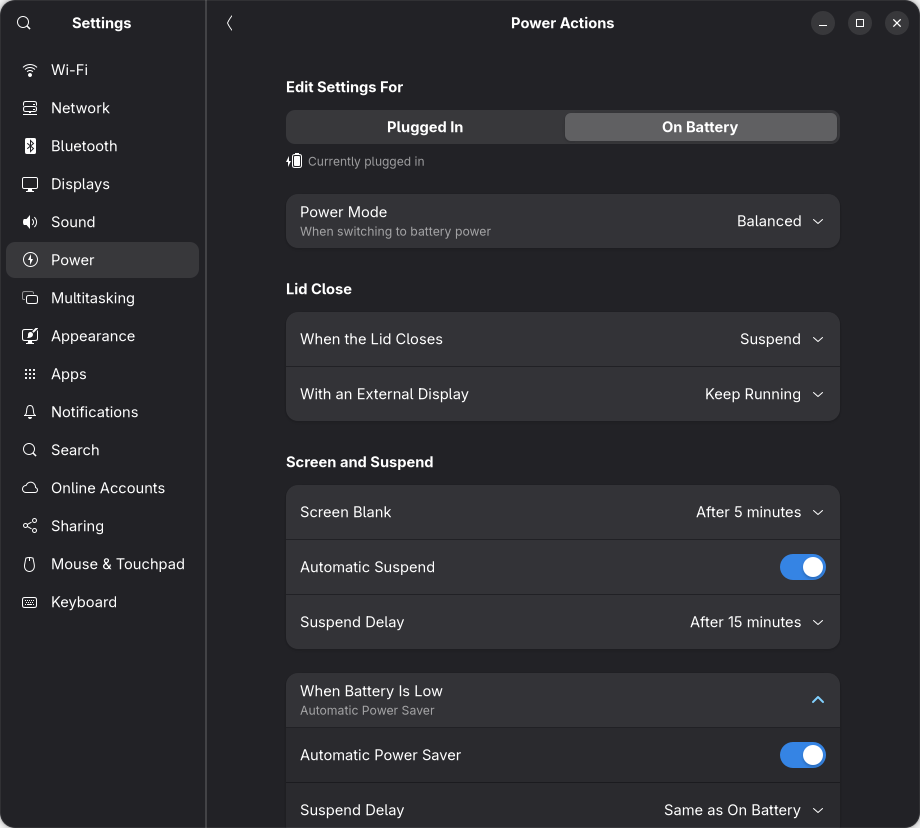
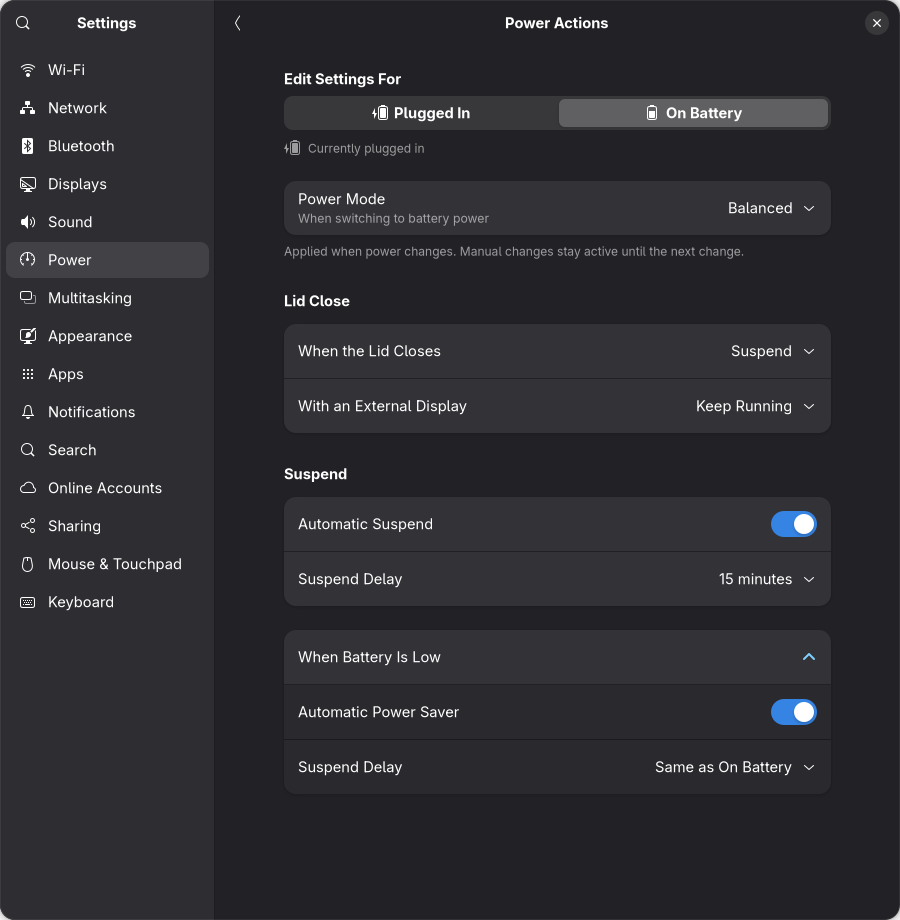
Use full duration labels in Simple View and regenerate authentic GTK4 GNOME mockups

diff --git a/tests/prefs.test.js b/tests/prefs.test.js
@@ -600,7 +600,7 @@ function makeBaseCaps(overrides = {}) {
     simple.selectSource('ac', { userInitiated: true });
     adv.selectState('ac');
     assertEqual(getSelectedLabel(simple._idleActionRow), 'Suspend', 'simple AC idle action synced');
-    assertEqual(getSelectedLabel(simple._idleTimeoutRow), 'After 20 min', 'simple AC idle delay synced');
+    assertEqual(getSelectedLabel(simple._idleTimeoutRow), '20 minutes', 'simple AC idle delay synced');
     assertEqual(getSelectedLabel(adv._idleActionDropDown), 'Suspend', 'Advanced AC idle action synced');
     assertEqual(getSelectedLabel(adv._idleTimeoutDropDown), 'After 20 min', 'Advanced AC idle delay synced');
 
@@ -647,7 +647,7 @@ function makeBaseCaps(overrides = {}) {
         true,
         'low-battery Suspend Delay enabled when Low Battery Automatic Suspend is Suspend'
     );
-    selectByLabel(simple._lowIdleTimeoutRow, 'After 5 min');
+    selectByLabel(simple._lowIdleTimeoutRow, '5 minutes');
     drainEvents();
 
     assertEqual(gnomePower.writes.length, 0, 'low-battery idle edits never touch native gsd-power');
@@ -809,7 +809,7 @@ function makeBaseCaps(overrides = {}) {
     // Extra native action ('blank') shows actual name and offers route to Advanced
     assertEqual(getSelectedLabel(simple._idleActionRow), 'Blank Screen', 'extra native action shown by name');
     assertEqual(simple._idleAdvancedRouteRow.visible, true, 'Edit in Advanced route shown for extra native action');
-    assertEqual(getSelectedLabel(simple._idleTimeoutRow), 'After 7 min 30 s', 'non-preset 450s timeout shown exactly');
+    assertEqual(getSelectedLabel(simple._idleTimeoutRow), '7 min 30 s', 'non-preset 450s timeout shown exactly');
 
     // Activating Edit in Advanced navigates to Advanced page on AC without writing settings
     const writesBeforeRoute = gnomePower.writes.length;
@@ -836,13 +836,13 @@ function makeBaseCaps(overrides = {}) {
     );
     assertEqual(
         getSelectedLabel(simple._idleTimeoutRow),
-        'After 17 min',
+        '17 minutes',
         'custom 1020s native timeout shown exactly'
     );
 
     // Editing Delay while Action is locked/hibernate preserves Action and only writes timeout
     gnomePower.writes.length = 0;
-    selectByLabel(simple._idleTimeoutRow, 'After 30 min');
+    selectByLabel(simple._idleTimeoutRow, '30 minutes');
     drainEvents();
     assertEqual(
         gnomePower.get_string('sleep-inactive-battery-type'),
@@ -1022,12 +1022,12 @@ function makeBaseCaps(overrides = {}) {
     const adv = ctrl.advancedController;
     adv.selectState('battery');
 
-    // Both pages show ordinary battery baseline (15 min = 900s), NOT the temporary 300s override
-    assertEqual(getSelectedLabel(simple._idleTimeoutRow), 'After 15 min', 'simple shows 900s battery baseline');
+    // Both pages show ordinary battery baseline (15 minutes = 900s), NOT the temporary 300s override
+    assertEqual(getSelectedLabel(simple._idleTimeoutRow), '15 minutes', 'simple shows 900s battery baseline');
     assertEqual(getSelectedLabel(adv._idleTimeoutDropDown), 'After 15 min', 'Advanced shows 900s battery baseline');
 
-    // Edit ordinary battery timeout to 20 min (1200s) in Power Source Settings during Low Battery
-    selectByLabel(simple._idleTimeoutRow, 'After 20 min');
+    // Edit ordinary battery timeout to 20 minutes (1200s) in Power Source Settings during Low Battery
+    selectByLabel(simple._idleTimeoutRow, '20 minutes');
     drainEvents();
 
     assertEqual(
@@ -1035,7 +1035,7 @@ function makeBaseCaps(overrides = {}) {
         300,
         'active Low Battery native override stays 300s'
     );
-    assertEqual(getSelectedLabel(simple._idleTimeoutRow), 'After 20 min', 'simple shows updated 1200s baseline');
+    assertEqual(getSelectedLabel(simple._idleTimeoutRow), '20 minutes', 'simple shows updated 1200s baseline');
     assertEqual(getSelectedLabel(adv._idleTimeoutDropDown), 'After 20 min', 'Advanced shows updated 1200s baseline');
 
     // Exit Low Battery (back to normal On Battery) -> restores 1200s!
@@ -1082,13 +1082,13 @@ function makeBaseCaps(overrides = {}) {
     const simple = ctrl.powerSourceController;
     simple._lowBatteryExpander.expanded = true;
 
-    // Inheriting native 15 min must display 15 min (not stored local 8 min)
+    // Inheriting native 15 min must display 15 minutes (not stored local 8 min)
     assertEqual(simple._lowIdleTimeoutRow.visible, true, 'inherited active delay row is visible');
     assertEqual(simple._lowIdleTimeoutRow.sensitive, false, 'inherited active delay row is disabled');
     assertEqual(
         getSelectedLabel(simple._lowIdleTimeoutRow),
-        'After 15 min',
-        'inherited low-battery delay shows actual effective native 15 min instead of local 8 min'
+        '15 minutes',
+        'inherited low-battery delay shows actual effective native 15 minutes instead of local 8 min'
     );
     assertEqual(
         simple._lowIdleTimeoutRow.subtitle,
@@ -1106,8 +1106,8 @@ function makeBaseCaps(overrides = {}) {
     drainEvents();
     assertEqual(
         getSelectedLabel(simple._lowIdleTimeoutRow),
-        'After 20 min',
-        'inherited low-battery delay tracks native battery timeout update to 20 min'
+        '20 minutes',
+        'inherited low-battery delay tracks native battery timeout update to 20 minutes'
     );
     assertEqual(
         settings.get_int('low-battery-idle-timeout'),
@@ -1127,8 +1127,8 @@ function makeBaseCaps(overrides = {}) {
     assertEqual(simple._lowIdleTimeoutRow.sensitive, true, 'explicit Suspend enables low-battery delay row');
     assertEqual(
         getSelectedLabel(simple._lowIdleTimeoutRow),
-        'After 8 min',
-        'explicit Suspend displays preserved stored independent 8 min delay'
+        '8 minutes',
+        'explicit Suspend displays preserved stored independent 8 minutes delay'
     );
 
     // Switching back to inherited when On Battery is Off omits the delay row
@@ -1147,14 +1147,14 @@ function makeBaseCaps(overrides = {}) {
         'low-battery action choice accurately displays Same as Battery (Off)'
     );
 
-    // Switching back to explicit Suspend re-shows row with preserved 8 min delay
+    // Switching back to explicit Suspend re-shows row with preserved 8 minutes delay
     selectByLabel(simple._lowIdleActionRow, 'Suspend');
     drainEvents();
     assertEqual(simple._lowIdleTimeoutRow.visible, true, 'explicit Suspend re-shows delay row');
     assertEqual(
         getSelectedLabel(simple._lowIdleTimeoutRow),
-        'After 8 min',
-        'preserved independent 8 min delay survives Off-inheritance round trip'
+        '8 minutes',
+        'preserved independent 8 minutes delay survives Off-inheritance round trip'
     );
 
     ctrl.destroy();

diff --git a/lib/powerSourcePage.js b/lib/powerSourcePage.js
@@ -880,7 +880,7 @@ export class PowerSourcePageController {
         }
 
         const delayActive = exactIdle.action === 'suspend' || exactIdle.action === 'hibernate';
-        this._idleTimeoutChoices = buildTimeoutChoices(exactIdle.timeout, _);
+        this._idleTimeoutChoices = buildTimeoutChoices(exactIdle.timeout, _, { compact: false });
         setModelIfChanged(this._idleTimeoutRow, this._idleTimeoutChoices.map(o => o.label));
         selectOption(this._idleTimeoutRow, this._idleTimeoutChoices, 'value', exactIdle.timeout);
 
@@ -1001,7 +1001,9 @@ export class PowerSourcePageController {
         if (isInherited) {
             if (batHasDelay) {
                 this._lowIdleTimeoutRow.visible = true;
-                this._lowIdleTimeoutChoices = buildTimeoutChoices(batteryExactIdle.timeout, _);
+                this._lowIdleTimeoutChoices = buildTimeoutChoices(batteryExactIdle.timeout, _, {
+                    compact: false,
+                });
                 setModelIfChanged(
                     this._lowIdleTimeoutRow,
                     this._lowIdleTimeoutChoices.map(o => o.label)
@@ -1020,7 +1022,9 @@ export class PowerSourcePageController {
             }
         } else {
             this._lowIdleTimeoutRow.visible = true;
-            this._lowIdleTimeoutChoices = buildTimeoutChoices(lowExactIdle.timeout, _);
+            this._lowIdleTimeoutChoices = buildTimeoutChoices(lowExactIdle.timeout, _, {
+                compact: false,
+            });
             setModelIfChanged(
                 this._lowIdleTimeoutRow,
                 this._lowIdleTimeoutChoices.map(o => o.label)

diff --git a/lib/prefsModel.js b/lib/prefsModel.js
@@ -173,14 +173,18 @@ export function formatDuration(seconds, _ = s => s) {
     return fmt(_('%d min %d s'), Math.floor(seconds / 60), seconds % 60);
 }
 
-export function buildTimeoutChoices(currentSeconds, _ = s => s) {
-    const list = BASE_IDLE_TIMEOUT_OPTIONS.map(o => ({ value: o.value, label: _(o.label) }));
+export function buildTimeoutChoices(currentSeconds, _ = s => s, { compact = true } = {}) {
+    const format = compact ? formatTimeoutDuration : formatDuration;
+    const list = BASE_IDLE_TIMEOUT_OPTIONS.map(o => ({
+        value: o.value,
+        label: compact ? _(o.label) : formatDuration(o.value, _),
+    }));
     if (
         typeof currentSeconds === 'number' &&
         currentSeconds > 0 &&
         !list.some(o => o.value === currentSeconds)
     ) {
-        list.push({ value: currentSeconds, label: formatTimeoutDuration(currentSeconds, _) });
+        list.push({ value: currentSeconds, label: format(currentSeconds, _) });
         list.sort((a, b) => a.value - b.value);
     }
     return list;

diff --git a/docs/gnome-power-actions/proposal.md b/docs/gnome-power-actions/proposal.md
@@ -42,29 +42,29 @@ Where the current layout falls short for the laptop/dock case:
 #### What stays put
 
 - **General** keeps global hardware and live state controls: battery status/health/charging limits, **Current Power Mode**, **Power Button Behavior**, and **Show Battery Percentage**.
-- **Power Saving** keeps global display-saving controls (**Automatic Screen Brightness** and **Dim Screen**).
-- Each native setting should have **one editing destination** rather than being duplicated in both **Power Saving** and **Power Actions** (see the phased rollout section below for handling global **Screen Blank** in an initial step).
+- **Power Saving** keeps global display-saving controls (**Automatic Screen Brightness**, **Dim Screen**, and global **Screen Blank** until per-source screen blanking exists natively). Keeping **Power Actions** as a dedicated subpage prevents users from assuming global display controls change when switching between **Plugged In** and **On Battery**.
+- Each native setting has **one editing destination** rather than being duplicated in both **Power Saving** and **Power Actions**.
 
 #### Entry point in Power Saving
 
 Add a single navigation row in **Power Saving**:
 
 - **Title:** `Power Actions`
-- **Subtitle:** `Choose what happens when the lid closes or the laptop is idle`
+- **Subtitle:** `Power mode, lid close, and automatic suspend`
 
-The copy is intentionally neutral and task-focused rather than repeating power-source mechanics in the subtitle.
+The copy is concise, neutral across laptops and desktops, and names the exact behaviors controlled inside.
 
 #### Figure 1: Power Saving entry point (desktop)
 
-![Desktop GNOME Settings showing the Power panel on the Power Saving view with Automatic Screen Brightness, Dim Screen, and the Power Actions navigation row](images/power-saving.png)
+![Desktop GNOME Settings showing the Power panel on the Power Saving view with Automatic Screen Brightness, Dim Screen, Screen Blank, and the Power Actions navigation row](images/power-saving.png)
 
-*Description:* Desktop layout of GNOME Settings with **Power** selected in the sidebar and **Power Saving** active in the header switcher. The top boxed list keeps **Automatic Screen Brightness** and **Dim Screen**. Below it is a single navigation row titled **Power Actions**, subtitled **"Choose what happens when the lid closes or the laptop is idle"**, with a disclosure chevron.
+*Description:* Desktop layout of GNOME Settings with **Power** selected in the sidebar and **Power Saving** active in the header switcher. The top boxed list keeps global display controls (**Automatic Screen Brightness**, **Dim Screen**, and **Screen Blank** set to **5 minutes**). Below it is a single navigation row titled **Power Actions**, subtitled **"Power mode, lid close, and automatic suspend"**, with a disclosure chevron.
 
 #### Figure 2: Power Saving entry point (narrow / 360px)
 
-![Narrow 360px layout of the Power Saving view with bottom General and Power Saving view switcher and the Power Actions row](images/power-saving-narrow.png)
+![Narrow 360px layout of the Power Saving view with back button, bottom General and Power Saving view switcher, global display rows, and the Power Actions row](images/power-saving-narrow.png)
 
-*Description:* Compact 360px layout of **Power Saving**. The sidebar collapses, the **General** / **Power Saving** switcher moves to the bottom bar, and the **Power Actions** row wraps cleanly under **Automatic Screen Brightness** and **Dim Screen**.
+*Description:* Compact 360px layout of **Power Saving**. The sidebar collapses behind the top-left back button, the **General** / **Power Saving** switcher moves to the bottom bar, and **Power Actions** wraps cleanly below **Automatic Screen Brightness**, **Dim Screen**, and **Screen Blank**.
 
 ---
 
@@ -76,31 +76,31 @@ Activating **Power Actions** pushes a navigation page structured around two peer
   - `Edit Settings For` uses a segmented toggle (`Plugged In` | `On Battery`) to answer *"Which settings am I editing?"*.
   - On opening, the selector initializes to the laptop's actual active power source when reliably known (with a deterministic fallback when unknown).
   - Once open, the selected editing tab **never changes automatically** during plug/unplug events, hardware probe updates, or low-battery transitions—preventing focus or context from jumping mid-edit.
-  - A separate, non-interactive status caption underneath (e.g., `Currently plugged in`, omitted if unknown) answers *"What is the laptop using right now?"*. Browsing either tab never writes settings or activates a power profile.
+  - A separate, non-interactive dimmed status caption underneath (e.g., `Currently plugged in`, omitted if unknown) answers *"What is the laptop using right now?"*. Browsing either tab never writes settings or activates a power profile.
 - **Symmetrical primary rows:** Both **Plugged In** and **On Battery** present the same groups in the same order, with one primary control per row:
-  1. **Power Mode** — transition rule (`When connecting to power` / `When switching to battery power`), proposed fresh default **Keep Current Mode** for both sources.
+  1. **Power Mode** — transition rule (`When connecting to power` / `When switching to battery power`), proposed fresh default **Keep Current Mode** for both sources, accompanied by a concise caption (*"Applied when power changes. Manual changes stay active until the next change."*).
   2. **Lid Close** — **When the Lid Closes** and **With an External Display**.
-  3. **Screen and Suspend** — **Screen Blank**, **Automatic Suspend**, and **Suspend Delay** (with **Suspend Delay** insensitive when **Automatic Suspend** is turned off).
+  3. **Suspend** — **Automatic Suspend** and **Suspend Delay** (with **Suspend Delay** insensitive when **Automatic Suspend** is turned off, using GNOME's standard duration labels such as `15 minutes` and `1 hour` without a redundant `"After"` prefix).
 - **Thoughtful hardware and capability adaptation:** Hide **Lid Close** on devices without a lid; hide **With an External Display** when its outcomes would not differ from the main lid action; hide or adapt **Power Mode** when no power-profiles backend is available; omit the **Plugged In** / **On Battery** selector on AC-only desktops. If a user already configured a non-preset timeout or an unusual action via `dconf`, display the real value accurately and preserve it when editing neighboring rows.
-- **Nested low-battery exception with honest inheritance:** Under **On Battery** only, a **When Battery Is Low** expander row summarizes only the effective differences from ordinary battery behavior (for example, `Automatic Power Saver`, or `Automatic Power Saver · suspend after 5 minutes`). Inheritance wording such as `Same as On Battery` is used only where a setting genuinely inherits from **On Battery** rather than inferring inheritance from two equal values. Editing **When Battery Is Low** never modifies ordinary **On Battery** settings.
+- **Nested low-battery exception with honest inheritance:** Under **On Battery** only, a **When Battery Is Low** expander row summarizes only the effective differences from ordinary battery behavior when collapsed (for example, `Automatic Power Saver`, or `Automatic Power Saver · suspend after 5 minutes`). Inheritance wording such as `Same as On Battery` is used only where a setting genuinely inherits from **On Battery** rather than inferring inheritance from two equal values. Editing **When Battery Is Low** never modifies ordinary **On Battery** settings. (When ordinary **Automatic Suspend** on battery is turned off, the low-battery delay row should either clarify `Off (Same as On Battery)` or allow opting into a low-battery suspend delay explicitly.)
 
 #### Figure 3: Plugged In view (desktop)
 
-![Desktop Power Actions subpage with Plugged In selected, showing Currently plugged in status, Power Mode, Lid Close, and Screen and Suspend groups](images/plugged-in.png)
+![Desktop Power Actions subpage with Plugged In selected, showing Currently plugged in status, Power Mode, Lid Close, and Suspend groups](images/plugged-in.png)
 
-*Description:* Desktop layout inside **Power Actions** with **Plugged In** selected in `Edit Settings For` and `Currently plugged in` underneath. **Power Mode** (`When connecting to power`) is set to **Keep Current Mode**. Under **Lid Close**, **When the Lid Closes** is **Suspend** and **With an External Display** is **Keep Running**. Under **Screen and Suspend**, **Screen Blank** is **After 15 minutes**, **Automatic Suspend** is off, and **Suspend Delay** (**After 1 hour**) is insensitive.
+*Description:* Desktop layout inside **Power Actions** with **Plugged In** selected in `Edit Settings For` and `Currently plugged in` underneath. **Power Mode** (`When connecting to power`) is set to **Keep Current Mode**, followed by the transition caption. Under **Lid Close**, **When the Lid Closes** is **Suspend** and **With an External Display** is **Keep Running**. Under **Suspend**, **Automatic Suspend** is off and **Suspend Delay** (**1 hour**) is insensitive.
 
 #### Figure 4: On Battery view with nested Low Battery (desktop)
 
 ![Desktop Power Actions subpage with On Battery selected while currently plugged in, showing expanded When Battery Is Low controls](images/on-battery.png)
 
-*Description:* Desktop layout of **Power Actions** with **On Battery** selected while the status caption still reads `Currently plugged in`, showing offline editing of the inactive source. **Power Mode** (`When switching to battery power`) shows **Balanced** as an illustrative configured value (fresh installs would default to **Keep Current Mode**). **Lid Close** preserves the same two rows. **Screen and Suspend** shows **Screen Blank** (**After 5 minutes**), **Automatic Suspend** on, and **Suspend Delay** (**After 15 minutes**). At the bottom, the expanded **When Battery Is Low** row summarizes `Automatic Power Saver` in its subtitle and reveals the **Automatic Power Saver** switch (on) and low-battery **Suspend Delay** (`Same as On Battery`).
+*Description:* Desktop layout of **Power Actions** with **On Battery** selected while the status caption still reads `Currently plugged in`, showing offline editing of the inactive source. **Power Mode** (`When switching to battery power`) shows **Balanced** as an illustrative configured value (fresh installs would default to **Keep Current Mode**). **Lid Close** preserves the same two rows. **Suspend** shows **Automatic Suspend** on and **Suspend Delay** (**15 minutes**). At the bottom, the expanded **When Battery Is Low** row reveals the **Automatic Power Saver** switch (on) and low-battery **Suspend Delay** (`Same as On Battery`).
 
 #### Figure 5: On Battery view (narrow / 360px)
 
 ![Narrow 360px layout of Power Actions with On Battery selected and When Battery Is Low expanded](images/on-battery-narrow.png)
 
-*Description:* Compact 360px layout of **Power Actions**. The sidebar collapses behind the back button, `Edit Settings For` (**Plugged In** | **On Battery**) stays full-width at the top with `Currently plugged in` below it, and every single-control row stacks cleanly without narrow side-by-side inputs.
+*Description:* Compact 360px layout of **Power Actions**. The sidebar collapses behind the back button, `Edit Settings For` (**Plugged In** | **On Battery**) stays full-width at the top with `Currently plugged in` below it, and every single-control row—including the expanded **When Battery Is Low** section—stacks cleanly without narrow side-by-side inputs or clipping.
 
 ---
 
